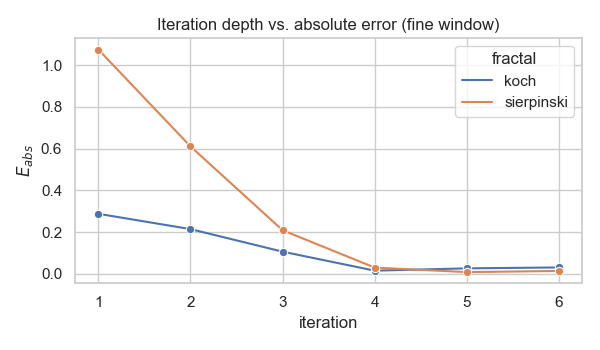
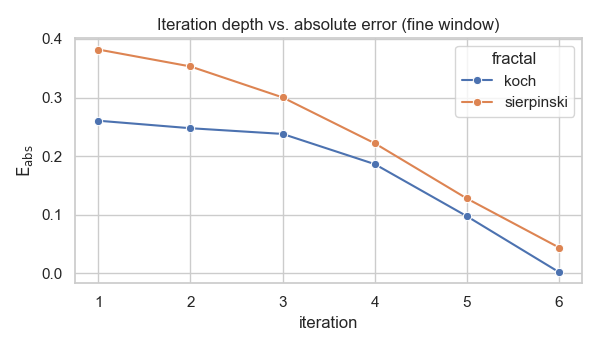
revise with gemini

diff --git a/src/fractal_dimension/regression.py b/src/fractal_dimension/regression.py
@@ -24,7 +24,7 @@ class RegressionResult:
 WINDOW_PRESETS = {
     "full": slice(None),
     "coarse": slice(0, 5),
-    "fine": slice(2, 7),
+    "fine": slice(5, 10),
 }
 
 
@@ -60,57 +60,58 @@ def fit_scaling_relationship(
     )
 
 
-def sliding_windows(length: int, window: int = 5) -> List[slice]:
-    """Return sliding window slices of a given width."""
-
-    if window <= 0:
-        raise ValueError("window must be positive")
-    return [
-        slice(start, start + window) for start in range(0, max(1, length - window + 1))
-    ]
-
-
 def summarize_windows(
-    df: pd.DataFrame, theoretical_dimension: float | None = None
+    log_eps: np.ndarray,
+    log_counts: np.ndarray,
+    theoretical_dimension: float | None = None,
 ) -> pd.DataFrame:
-    """Compute regression metrics across preset and sliding windows."""
+    """Run regressions on all preset and sliding windows."""
+    results = []
 
-    records = []
     for name, sl in WINDOW_PRESETS.items():
-        subset = df.iloc[sl]
-        result = fit_scaling_relationship(
-            subset["log_epsilon"].to_numpy(),
-            subset["log_counts"].to_numpy(),
-            theoretical_dimension,
-        )
-        records.append(
+        if sl.stop is not None and sl.stop > len(log_eps):
+            continue
+
+        subset_eps = log_eps[sl]
+        subset_counts = log_counts[sl]
+
+        if len(subset_eps) < 2:
+            continue
+
+        res = fit_scaling_relationship(subset_eps, subset_counts, theoretical_dimension)
+        results.append(
             {
                 "window": name,
-                "start": int(sl.start or 0),
-                "end": int(len(df) if sl.stop is None else sl.stop),
-                "d_est": result.d_est,
-                "r2": result.r2,
-                "abs_error": result.abs_error,
-                "rel_error": result.rel_error,
+                "slope": res.slope,
+                "intercept": res.intercept,
+                "r2": res.r2,
+                "d_est": res.d_est,
+                "abs_error": res.abs_error,
+                "rel_error": res.rel_error,
             }
         )
 
-    for idx, sl in enumerate(sliding_windows(len(df), window=5)):
-        subset = df.iloc[sl]
-        result = fit_scaling_relationship(
-            subset["log_epsilon"].to_numpy(),
-            subset["log_counts"].to_numpy(),
-            theoretical_dimension,
-        )
-        records.append(
+    window_width = 5
+    n_points = len(log_eps)
+
+    for i in range(n_points - window_width + 1):
+        sl = slice(i, i + window_width)
+        subset_eps = log_eps[sl]
+        subset_counts = log_counts[sl]
+
+        res = fit_scaling_relationship(subset_eps, subset_counts, theoretical_dimension)
+        window_name = f"slide_{i+1}_to_{i+window_width}"
+
+        results.append(
             {
-                "window": f"slide_{idx}",
-                "start": int(sl.start),
-                "end": int(sl.stop),
-                "d_est": result.d_est,
-                "r2": result.r2,
-                "abs_error": result.abs_error,
-                "rel_error": result.rel_error,
+                "window": window_name,
+                "slope": res.slope,
+                "intercept": res.intercept,
+                "r2": res.r2,
+                "d_est": res.d_est,
+                "abs_error": res.abs_error,
+                "rel_error": res.rel_error,
             }
         )
-    return pd.DataFrame.from_records(records)
+
+    return pd.DataFrame(results)

diff --git a/src/fractal_dimension/pipeline.py b/src/fractal_dimension/pipeline.py
@@ -18,9 +18,11 @@ from .fractals import (
 from .regression import summarize_windows
 
 
+import math
+
+
 @dataclass
 class ExperimentResult:
-    points: np.ndarray
     counts: pd.DataFrame
     regressions: pd.DataFrame
 
@@ -33,7 +35,7 @@ class FractalExperiment:
         self.specs: Dict[str, FractalSpec] = {spec.name: spec for spec in DEFAULT_SPECS}
 
     def _generate_points(
-        self, name: str, iterations: int, sample_density: int = 120
+        self, name: str, iterations: int, sample_density: int
     ) -> np.ndarray:
         spec = self.specs.get(name)
         if spec is None:
@@ -51,13 +53,35 @@ class FractalExperiment:
 
         raise ValueError(f"Unknown generator: {spec.generator}")
 
-    def run(
-        self, name: str, iterations: int, sample_density: int = 120
-    ) -> ExperimentResult:
-        points = self._generate_points(name, iterations, sample_density)
-        counts = box_count(points, self.epsilons)
+    def run(self, name: str, iterations: int) -> ExperimentResult:
         spec = self.specs[name]
-        regressions = summarize_windows(
-            counts, theoretical_dimension=spec.theoretical_dimension
+        all_counts = []
+
+        for eps in self.epsilons:
+            if name == "koch":
+                density = math.ceil(10 / eps)
+            elif name == "sierpinski":
+                side_len = 0.5**iterations
+                spacing = eps / 5.0
+                points_per_side = side_len / spacing
+                density = math.ceil(points_per_side**2)
+                density = max(1, density)
+            else:
+                density = 120
+
+            points = self._generate_points(name, iterations, density)
+            df = box_count(points, np.array([eps]))
+            all_counts.append(df)
+
+        counts_df = pd.concat(all_counts, ignore_index=True)
+        counts_df = counts_df.sort_values("epsilon", ascending=False).reset_index(
+            drop=True
         )
-        return ExperimentResult(points=points, counts=counts, regressions=regressions)
+
+        regressions = summarize_windows(
+            counts_df["log_epsilon"].to_numpy(),
+            counts_df["log_counts"].to_numpy(),
+            theoretical_dimension=spec.theoretical_dimension,
+        )
+
+        return ExperimentResult(counts=counts_df, regressions=regressions)

diff --git a/scripts/run_analysis.py b/scripts/run_analysis.py
@@ -3,7 +3,10 @@
 from __future__ import annotations
 
 import argparse
+import sys
 from pathlib import Path
+
+sys.path.append(str(Path(__file__).parent.parent / "src"))
 
 import matplotlib.pyplot as plt
 import pandas as pd
@@ -69,18 +72,15 @@ def plot_iteration_accuracy(summary: pd.DataFrame, output: Path) -> None:
     plt.close(fig)
 
 
-def run_pipeline(
-    output_dir: Path, max_iter: int = 6, sample_density: int = 120
-) -> None:
+def run_pipeline(output_dir: Path, max_iter: int = 6) -> None:
     output_dir.mkdir(parents=True, exist_ok=True)
     exp = FractalExperiment()
     summary_rows = []
 
     for spec in DEFAULT_SPECS:
         for iteration in range(1, max_iter + 1):
-            result = exp.run(
-                spec.name, iterations=iteration, sample_density=sample_density
-            )
+            print(f"Processing {spec.name} iteration {iteration}...")
+            result = exp.run(spec.name, iterations=iteration)
             prefix = f"{spec.name}_n{iteration}"
 
             counts_path = output_dir / f"{prefix}_counts.csv"
@@ -125,8 +125,5 @@ if __name__ == "__main__":
     parser.add_argument(
         "--max-iter", type=int, default=6, help="Maximum iteration depth"
     )
-    parser.add_argument(
-        "--density", type=int, default=120, help="Samples per segment/triangle"
-    )
     args = parser.parse_args()
-    run_pipeline(args.output, max_iter=args.max_iter, sample_density=args.density)
+    run_pipeline(args.output, max_iter=args.max_iter)

diff --git a/src/fractal_dimension/__init__.py b/src/fractal_dimension/__init__.py
@@ -2,7 +2,7 @@
 
 from .fractals import generate_koch_curve, generate_sierpinski_triangle
 from .boxcount import box_count
-from .regression import fit_scaling_relationship, sliding_windows
+from .regression import fit_scaling_relationship
 from .pipeline import FractalExperiment
 
 __all__ = [
@@ -10,6 +10,5 @@ __all__ = [
     "generate_sierpinski_triangle",
     "box_count",
     "fit_scaling_relationship",
-    "sliding_windows",
     "FractalExperiment",
 ]
